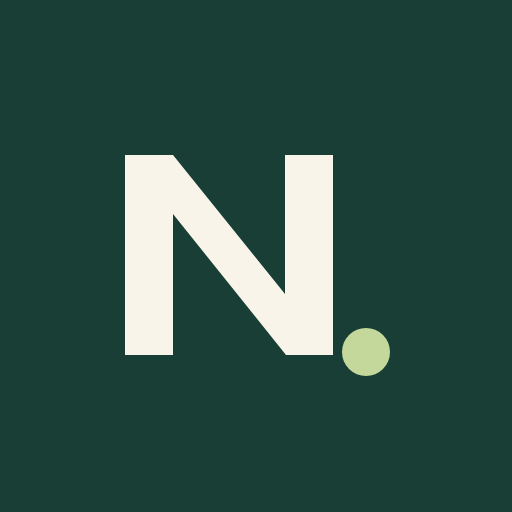
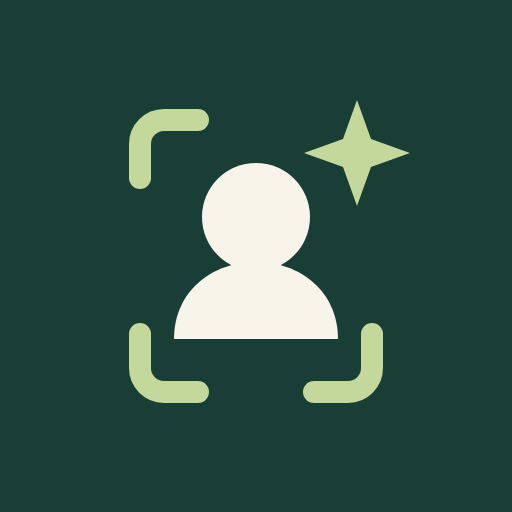
Rename project to AhThatsWho and replace brand artwork

Changed region(s): [[0.2188, 0.1875, 0.8125, 0.8125], [0.75, 0.6562, 0.7812, 0.7188]]

diff --git a/src/backup/portable.ts b/src/backup/portable.ts
@@ -10,7 +10,7 @@ import {
   type Value,
 } from '../domain/types';
 import { parseBackup, validateBackup } from '../domain/integrity';
-import { db, getMeta, setMeta, backupState, type NameCueDB } from '../data/db';
+import { db, getMeta, setMeta, backupState, type AhThatsWhoDB } from '../data/db';
 const val = <T>(v: Value<T> | undefined): Value<T> | undefined =>
   v
     ? {
@@ -92,7 +92,7 @@ export function cleanCapture(c: Capture): Capture {
 }
 export function sanitize(b: Backup): Backup {
   return {
-    format: 'namecue',
+    format: 'ahthatswho',
     version: FORMAT_VERSION,
     exportedAt: b.exportedAt,
     contexts: b.contexts.map((c) => ({ id: c.id, name: c.name, favorite: c.favorite })),
@@ -115,7 +115,7 @@ export function sanitize(b: Backup): Backup {
 export async function snapshot(d = db): Promise<Backup> {
   return d.transaction('r', [d.contexts, d.households, d.revisions, d.inbox, d.meta], async () =>
     sanitize({
-      format: 'namecue',
+      format: 'ahthatswho',
       version: FORMAT_VERSION,
       exportedAt: now(),
       contexts: await d.contexts.toArray(),
@@ -133,7 +133,7 @@ export const digest = async (json: string) =>
 export function importPreview(json: string) {
   return sanitize(parseBackup(json));
 }
-export async function replaceData(input: Backup, d: NameCueDB = db) {
+export async function replaceData(input: Backup, d: AhThatsWhoDB = db) {
   validateBackup(input);
   const b = sanitize(input);
   return d.transaction(
@@ -183,7 +183,7 @@ export async function recoverSafety(d = db) {
   if (!safety) throw new Error('No previous local data is available');
   await replaceData(safety, d);
 }
-export function download(json: string, name = `namecue-${now().slice(0, 10)}.json`) {
+export function download(json: string, name = `ahthatswho-${now().slice(0, 10)}.json`) {
   const url = URL.createObjectURL(new Blob([json], { type: 'application/json' }));
   const a = document.createElement('a');
   a.href = url;

diff --git a/src/providers/cloudkit.ts b/src/providers/cloudkit.ts
@@ -128,7 +128,7 @@ export async function connectCloud(config: CloudConfig, onAuth: (signedIn: boole
     async list() {
       const result: CloudSnapshot[] = [];
       let q: unknown = {
-        recordType: 'NameCueSnapshot',
+        recordType: 'AhThatsWhoSnapshot',
         sortBy: [{ fieldName: 'exportedAt', ascending: false }],
       };
       do {
@@ -146,7 +146,7 @@ export async function connectCloud(config: CloudConfig, onAuth: (signedIn: boole
       checked(
         await database.saveRecords({
           recordName: id,
-          recordType: 'NameCueSnapshot',
+          recordType: 'AhThatsWhoSnapshot',
           fields: {
             payload: { value: new Blob([json], { type: 'application/json' }) },
             exportedAt: { value: b.exportedAt },
@@ -162,7 +162,7 @@ export async function connectCloud(config: CloudConfig, onAuth: (signedIn: boole
       assert(record, 'Snapshot no longer exists');
       const asset = record.fields.payload?.value as { downloadURL?: string };
       assert(asset?.downloadURL, 'Snapshot asset is missing');
-      const url = new URL(asset.downloadURL.replace('${f}', 'namecue.json'));
+      const url = new URL(asset.downloadURL.replace('${f}', 'ahthatswho.json'));
       assert(
         url.protocol === 'https:' &&
           (url.hostname.endsWith('.icloud-content.com') ||

diff --git a/src/providers/openai.ts b/src/providers/openai.ts
@@ -15,16 +15,16 @@ export const PARSER_MODEL = 'gpt-6-luna'; // Pinned candidate; real account eval
 export const TRANSCRIPTION_MODEL = 'gpt-transcribe';
 let sessionKey = '';
 export function getKey() {
-  return sessionKey || localStorage.getItem('namecue.openai') || '';
+  return sessionKey || localStorage.getItem('ahthatswho.openai') || '';
 }
 export function setKey(key: string, remember: boolean) {
   sessionKey = key.trim();
-  localStorage.removeItem('namecue.openai');
-  if (remember && sessionKey) localStorage.setItem('namecue.openai', sessionKey);
+  localStorage.removeItem('ahthatswho.openai');
+  if (remember && sessionKey) localStorage.setItem('ahthatswho.openai', sessionKey);
 }
 export function forgetKey() {
   sessionKey = '';
-  localStorage.removeItem('namecue.openai');
+  localStorage.removeItem('ahthatswho.openai');
 }
 async function request(path: string, body?: BodyInit, json = false) {
   const key = getKey();
@@ -174,7 +174,7 @@ Existing IDs must come ONLY from candidates; new IDs must start tmp:. Household/
         contexts,
         nameIndex: index.slice(0, 5000),
       }),
-      text: { format: { type: 'json_schema', name: 'namecue_proposal', strict: true, schema } },
+      text: { format: { type: 'json_schema', name: 'ahthatswho_proposal', strict: true, schema } },
     }),
     true,
   );

diff --git a/e2e/update.spec.ts b/e2e/update.spec.ts
@@ -18,13 +18,13 @@ test('a real waiting service worker prompts and cannot reload an editor', async 
       const registration = await navigator.serviceWorker.getRegistration();
       await registration!.update();
     });
-    await expect(page.getByRole('button', { name: 'Update NameCue' })).toBeVisible();
-    await expect(page.getByRole('button', { name: 'Update NameCue' })).toBeDisabled();
+    await expect(page.getByRole('button', { name: 'Update AhThatsWho' })).toBeVisible();
+    await expect(page.getByRole('button', { name: 'Update AhThatsWho' })).toBeDisabled();
     await page.getByRole('button', { name: 'Cancel & discard draft' }).click();
-    await expect(page.getByRole('button', { name: 'Update NameCue' })).toBeEnabled();
-    await page.getByRole('button', { name: 'Update NameCue' }).click();
+    await expect(page.getByRole('button', { name: 'Update AhThatsWho' })).toBeEnabled();
+    await page.getByRole('button', { name: 'Update AhThatsWho' }).click();
     await expect(page.getByRole('searchbox')).toBeVisible();
-    await expect(page.getByRole('button', { name: 'Update NameCue' })).not.toBeVisible();
+    await expect(page.getByRole('button', { name: 'Update AhThatsWho' })).not.toBeVisible();
   } finally {
     await writeFile(path, original);
   }

diff --git a/src/ui/Settings.tsx b/src/ui/Settings.tsx
@@ -252,7 +252,7 @@ export function Settings(props: {
             {state()?.lastSuccess ? new Date(state()!.lastSuccess!).toLocaleString() : 'None yet'}
           </p>
           <p class="fine">
-            Uploads run while NameCue is open. Untranscribed audio remains local only.
+            Uploads run while AhThatsWho is open. Untranscribed audio remains local only.
           </p>
           <details>
             <summary>CloudKit configuration</summary>
@@ -261,7 +261,7 @@ export function Settings(props: {
               <input
                 value={config().container}
                 onInput={(e) => setConfig({ ...config(), container: e.currentTarget.value })}
-                placeholder="iCloud.com.example.NameCue"
+                placeholder="iCloud.com.example.AhThatsWho"
               />
             </label>
             <label>
@@ -551,7 +551,7 @@ export function Settings(props: {
           </p>
         </div>
         <div class="settings-block">
-          <h2>About NameCue</h2>
+          <h2>About AhThatsWho</h2>
           <p>
             Names, in context. No analytics. Your notebook lives on this device, with optional
             private CloudKit backups.

diff --git a/src/capture/application.ts b/src/capture/application.ts
@@ -1,4 +1,4 @@
-import { db, dirty, writeHousehold, type NameCueDB } from '../data/db';
+import { db, dirty, writeHousehold, type AhThatsWhoDB } from '../data/db';
 import { assert, validateHousehold } from '../domain/integrity';
 import {
   now,
@@ -47,7 +47,7 @@ export function removals(current: Household, proposed: Household) {
     if (!proposed.contextIds.includes(c)) changes.push(`Remove context reference: ${c}`);
   return changes;
 }
-export async function applyCapture(id: string, acknowledged = false, d: NameCueDB = db) {
+export async function applyCapture(id: string, acknowledged = false, d: AhThatsWhoDB = db) {
   const receipt = await d.transaction(
     'rw',
     [d.inbox, d.households, d.contexts, d.revisions, d.meta],
@@ -190,7 +190,7 @@ export function manualProposal(h: Household, current?: HouseholdRecord): Proposa
   };
 }
 
-async function cleanupAudio(id: string, d: NameCueDB) {
+async function cleanupAudio(id: string, d: AhThatsWhoDB) {
   await d.transaction('rw', [d.audio, d.inbox], async () => {
     await d.audio.where('captureId').equals(id).delete();
     await d.inbox.update(id, { audioId: undefined });

diff --git a/tests/core.test.ts b/tests/core.test.ts
@@ -1,6 +1,6 @@
 import { afterEach, describe, it, expect } from 'vitest';
 import {
-  NameCueDB,
+  AhThatsWhoDB,
   saveHousehold,
   saveCapture,
   saveContext,
@@ -25,13 +25,13 @@ import {
 import { BackupCoordinator } from '../src/backup/coordinator';
 import type { BackupProvider } from '../src/providers/cloudkit';
 import { now, uuid, type Capture } from '../src/domain/types';
-const databases: NameCueDB[] = [];
+const databases: AhThatsWhoDB[] = [];
 function database() {
-  const d = new NameCueDB(`test-${uuid()}`);
+  const d = new AhThatsWhoDB(`test-${uuid()}`);
   databases.push(d);
   return d;
 }
-async function seed(d: NameCueDB) {
+async function seed(d: AhThatsWhoDB) {
   const b = fixtures(3);
   await replaceData(b, d);
   return b;
@@ -123,7 +123,7 @@ describe('transactions and history', () => {
   });
 });
 describe('capture application', () => {
-  async function capture(d: NameCueDB) {
+  async function capture(d: AhThatsWhoDB) {
     const b = await seed(d);
     const r = b.households[0];
     const c: Capture = {

diff --git a/src/app/App.tsx b/src/app/App.tsx
@@ -303,12 +303,10 @@ export default function App() {
   return (
     <>
       <header class="app-header">
-        <button class="brand" onClick={home} aria-label="NameCue home">
-          <span class="brand-icon" aria-hidden="true">
-            N<span>·</span>
-          </span>
+        <button class="brand" onClick={home} aria-label="AhThatsWho home">
+          <img class="brand-icon" src="/icon.svg" alt="" aria-hidden="true" />
           <span>
-            NameCue<small>Names, in context.</small>
+            AhThatsWho<small>Names, in context.</small>
           </span>
         </button>
         <div class="header-right">
@@ -339,7 +337,7 @@ export default function App() {
           <div class="notice">
             Update available. {blocked() ? 'Finish recording or editing before updating.' : ''}
             <button disabled={blocked()} onClick={() => void sw.updateServiceWorker(true)}>
-              Update NameCue
+              Update AhThatsWho
             </button>
           </div>
         </Show>

diff --git a/index.html b/index.html
@@ -1,1 +1,1 @@
-<!doctype html><html lang="en"><head><meta charset="UTF-8"><meta name="viewport" content="width=device-width,initial-scale=1,viewport-fit=cover"><meta name="theme-color" content="#183e35"><meta name="description" content="A private, offline home for the names you want to remember."><link rel="icon" href="/icon.svg"><link rel="apple-touch-icon" href="/apple-touch-icon.png"><title>NameCue</title></head><body><div id="root"></div><script type="module" src="/src/index.tsx"></script></body></html>
+<!doctype html><html lang="en"><head><meta charset="UTF-8"><meta name="viewport" content="width=device-width,initial-scale=1,viewport-fit=cover"><meta name="theme-color" content="#183e35"><meta name="description" content="A private, offline home for the names you want to remember."><link rel="icon" href="/icon.svg"><link rel="apple-touch-icon" href="/apple-touch-icon.png"><title>AhThatsWho</title></head><body><div id="root"></div><script type="module" src="/src/index.tsx"></script></body></html>

diff --git a/src/data/db.ts b/src/data/db.ts
@@ -13,14 +13,14 @@ import {
   type Revision,
 } from '../domain/types';
 import { assert, semantic, validateHousehold } from '../domain/integrity';
-export class NameCueDB extends Dexie {
+export class AhThatsWhoDB extends Dexie {
   households!: Table<HouseholdRecord, string>;
   contexts!: Table<Context, string>;
   revisions!: Table<Revision, string>;
   inbox!: Table<Capture, string>;
   audio!: Table<AudioRecord, string>;
   meta!: Table<{ key: string; value: unknown }, string>;
-  constructor(name = 'namecue') {
+  constructor(name = 'ahthatswho') {
     super(name);
     this.version(FORMAT_VERSION).stores({
       households: 'household.id,updatedAt,deletedAt',
@@ -32,7 +32,7 @@ export class NameCueDB extends Dexie {
     });
   }
 }
-export const db = new NameCueDB();
+export const db = new AhThatsWhoDB();
 export async function getMeta<T>(key: string, fallback: T, d = db): Promise<T> {
   return ((await d.meta.get(key))?.value as T) ?? fallback;
 }

diff --git a/src/backup/coordinator.ts b/src/backup/coordinator.ts
@@ -1,4 +1,4 @@
-import { db, backupState, setMeta, type NameCueDB } from '../data/db';
+import { db, backupState, setMeta, type AhThatsWhoDB } from '../data/db';
 import { digest, snapshot } from './portable';
 import { now, uuid } from '../domain/types';
 import type { BackupProvider } from '../providers/cloudkit';
@@ -7,7 +7,7 @@ export class BackupCoordinator {
   private running = false;
   constructor(
     private provider: BackupProvider,
-    private d: NameCueDB = db,
+    private d: AhThatsWhoDB = db,
     private notify: (s: string) => void = () => {},
   ) {}
   async authorize() {

diff --git a/src/domain/integrity.ts b/src/domain/integrity.ts
@@ -105,11 +105,11 @@ function record(r: unknown, contexts: Set<string>) {
 }
 export function validateBackup(input: unknown): asserts input is Backup {
   object(input);
-  assert(input.format === 'namecue', 'Not a NameCue backup');
+  assert(input.format === 'ahthatswho', 'Not an AhThatsWho backup');
   assert(
     input.version === FORMAT_VERSION,
     Number(input.version) > FORMAT_VERSION
-      ? 'This backup requires a newer NameCue version'
+      ? 'This backup requires a newer AhThatsWho version'
       : 'Unsupported backup version',
   );
   timestamp(input.exportedAt);
